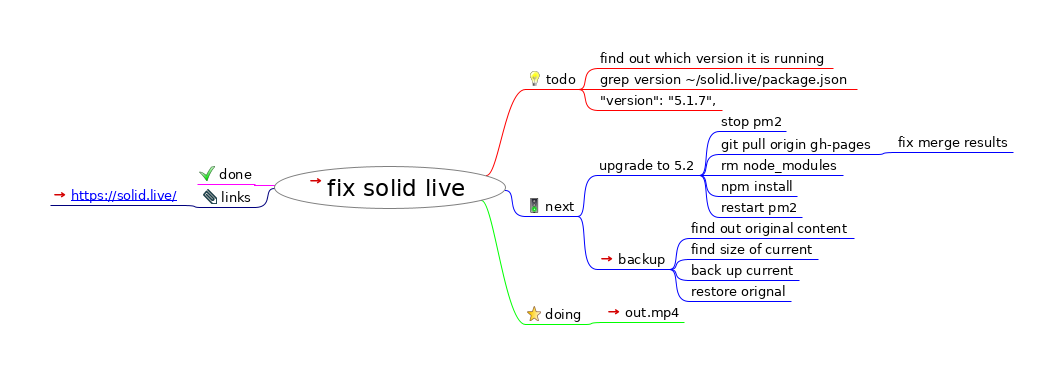
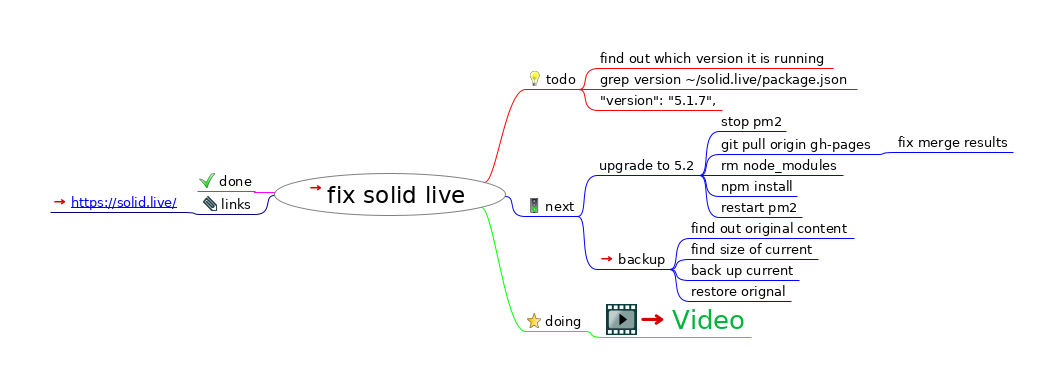
DEFAULT_MESSAGE

diff --git a/2019/10/12/solid.live.html b/2019/10/12/solid.live.html
@@ -23,7 +23,7 @@
                    };
                };
           
-          --></script></head><body><h1>fix solid live</h1><div style="width:96%;  padding:2%;  margin-bottom:10px;  border: 0px;  text-align:center;  vertical-align:center;"><img src="solid.live.html_files/image.png" style="margin-bottom:10px; &#9;border: 0px; &#9;text-align:center; &#9;vertical-align:center;" alt="Imagemap" usemap="#fm_imagemap" /></div><map name="fm_imagemap" id="fm_imagemap"><area shape="rect" href="index.html" alt="fix solid live" title="fix solid live" coords="274,166,506,209" />
+          --></script></head><body><h1>fix solid live</h1><div style="width:96%;  padding:2%;  margin-bottom:10px;  border: 0px;  text-align:center;  vertical-align:center;"><img src="solid.live.html_files/image.png" style="margin-bottom:10px; &#9;border: 0px; &#9;text-align:center; &#9;vertical-align:center;" alt="Imagemap" usemap="#fm_imagemap" /></div><map name="fm_imagemap" id="fm_imagemap"><area shape="rect" href="index.html" alt="fix solid live" title="fix solid live" coords="274,173,506,216" />
 <area shape="rect" href="#FMID_218445687FM" alt="todo" title="todo" coords="525,71,579,89" />
 <area shape="rect" href="#FMID_1597514152FM" alt="find out which version it is running" title="find out which version it is running" coords="598,50,833,68" />
 <area shape="rect" href="#FMID_1245027612FM" alt="grep version ~/solid.live/package.json" title="grep version ~/solid.live/package.json" coords="598,71,857,89" />
@@ -41,14 +41,14 @@
 <area shape="rect" href="#FMID_999561499FM" alt="find size of current" title="find size of current" coords="689,241,818,259" />
 <area shape="rect" href="#FMID_1710561339FM" alt="back up current" title="back up current" coords="689,262,799,280" />
 <area shape="rect" href="#FMID_730662297FM" alt="restore orignal" title="restore orignal" coords="689,283,791,301" />
-<area shape="rect" href="#FMID_1337705947FM" alt="doing" title="doing" coords="525,306,585,324" />
-<area shape="rect" href="solid.live.html_files/out.mp4" alt="out.mp4" title="out.mp4" coords="604,304,684,322" />
-<area shape="rect" href="#FMID_173873269FM" alt="done" title="done" coords="197,166,255,184" />
-<area shape="rect" href="#FMID_1081416841FM" alt="links" title="links" coords="201,189,255,207" />
-<area shape="rect" href="https://solid.live/" alt="https://solid.live/" title="https://solid.live/" coords="50,187,182,205" />
+<area shape="rect" href="#FMID_1337705947FM" alt="doing" title="doing" coords="525,313,585,331" />
+<area shape="rect" href="solid.live.html_files/out.mp4" alt="Video" title="Video" coords="604,304,751,337" />
+<area shape="rect" href="#FMID_173873269FM" alt="done" title="done" coords="197,173,255,191" />
+<area shape="rect" href="#FMID_1081416841FM" alt="links" title="links" coords="201,196,255,214" />
+<area shape="rect" href="https://solid.live/" alt="https://solid.live/" title="https://solid.live/" coords="50,194,182,212" />
 </map>
 
-<div class="node"><img src="solid.live.html_files/hide.png" class="hideshow" alt="hide" onClick="toggle(&quot;N65543&quot;)" id="imgN65543" /><a id="FMID_1306358364FM" /><div class="nodecontent" style="color:#000000;font-size:150%;"><a href="index.html">fix solid live</a> <a href="index.html"><img src="solid.live.html_files/ilink.png" alt="User Link" style="border-width:0" /></a></div><div class="content" id="N65543"><div class="node"><img src="solid.live.html_files/hide.png" class="hideshow" alt="hide" onClick="toggle(&quot;N66508&quot;)" id="imgN66508" /><img src="solid.live.html_files/icons/idea.svg" alt="idea" /> <a id="FMID_218445687FM" /><div class="nodecontent" style="color:#000000;font-size:83%;">todo</div><div class="content" id="N66508"><div class="node"><img src="solid.live.html_files/leaf.png" class="hideshow" alt="leaf" /><a id="FMID_1597514152FM" /><div class="nodecontent" style="color:#000000;font-size:83%;">find out which version it is running</div></div><div class="node"><img src="solid.live.html_files/leaf.png" class="hideshow" alt="leaf" /><a id="FMID_1245027612FM" /><div class="nodecontent" style="color:#000000;font-size:83%;">grep version ~/solid.live/package.json</div></div><div class="node"><img src="solid.live.html_files/leaf.png" class="hideshow" alt="leaf" /><a id="FMID_258954144FM" /><div class="nodecontent" style="color:#000000;font-size:83%;">"version": "5.1.7",</div></div></div></div><div class="node"><img src="solid.live.html_files/hide.png" class="hideshow" alt="hide" onClick="toggle(&quot;N66658&quot;)" id="imgN66658" /><img src="solid.live.html_files/icons/go.svg" alt="go" /> <a id="FMID_498159152FM" /><div class="nodecontent" style="color:#000000;font-size:83%;">next</div><div class="content" id="N66658"><div class="node"><img src="solid.live.html_files/hide.png" class="hideshow" alt="hide" onClick="toggle(&quot;N66699&quot;)" id="imgN66699" /><a id="FMID_1019039207FM" /><div class="nodecontent" style="color:#000000;font-size:83%;">upgrade to 5.2</div><div class="content" id="N66699"><div class="node"><img src="solid.live.html_files/leaf.png" class="hideshow" alt="leaf" /><a id="FMID_667633327FM" /><div class="nodecontent" style="color:#000000;font-size:83%;">stop pm2</div></div><div class="node"><img src="solid.live.html_files/hide.png" class="hideshow" alt="hide" onClick="toggle(&quot;N66770&quot;)" id="imgN66770" /><a id="FMID_333737714FM" /><div class="nodecontent" style="color:#000000;font-size:83%;">git pull origin gh-pages</div><div class="content" id="N66770"><div class="node"><img src="solid.live.html_files/leaf.png" class="hideshow" alt="leaf" /><a id="FMID_1476660597FM" /><div class="nodecontent" style="color:#000000;font-size:83%;">fix merge results</div></div></div></div><div class="node"><img src="solid.live.html_files/leaf.png" class="hideshow" alt="leaf" /><a id="FMID_1482135301FM" /><div class="nodecontent" style="color:#000000;font-size:83%;">rm node_modules</div></div><div class="node"><img src="solid.live.html_files/leaf.png" class="hideshow" alt="leaf" /><a id="FMID_1626232981FM" /><div class="nodecontent" style="color:#000000;font-size:83%;">npm install</div></div><div class="node"><img src="solid.live.html_files/leaf.png" class="hideshow" alt="leaf" /><a id="FMID_37332904FM" /><div class="nodecontent" style="color:#000000;font-size:83%;">restart pm2</div></div></div></div><div class="node"><img src="solid.live.html_files/hide.png" class="hideshow" alt="hide" onClick="toggle(&quot;N66951&quot;)" id="imgN66951" /><a id="FMID_469898696FM" /><div class="nodecontent" style="color:#000000;font-size:83%;"><a href="solid.live.html_files/out.mp4">backup</a> <a href="solid.live.html_files/out.mp4"><img src="solid.live.html_files/ilink.png" alt="User Link" style="border-width:0" /></a></div><div class="content" id="N66951"><div class="node"><img src="solid.live.html_files/leaf.png" class="hideshow" alt="leaf" /><a id="FMID_1371783227FM" /><div class="nodecontent" style="color:#000000;font-size:83%;">find out original content</div></div><div class="node"><img src="solid.live.html_files/leaf.png" class="hideshow" alt="leaf" /><a id="FMID_999561499FM" /><div class="nodecontent" style="color:#000000;font-size:83%;">find size of current</div></div><div class="node"><img src="solid.live.html_files/leaf.png" class="hideshow" alt="leaf" /><a id="FMID_1710561339FM" /><div class="nodecontent" style="color:#000000;font-size:83%;">back up current</div></div><div class="node"><img src="solid.live.html_files/leaf.png" class="hideshow" alt="leaf" /><a id="FMID_730662297FM" /><div class="nodecontent" style="color:#000000;font-size:83%;">restore orignal</div></div></div></div></div></div><div class="node"><img src="solid.live.html_files/hide.png" class="hideshow" alt="hide" onClick="toggle(&quot;N67133&quot;)" id="imgN67133" /><img src="solid.live.html_files/icons/bookmark.svg" alt="bookmark" /> <a id="FMID_1337705947FM" /><div class="nodecontent" style="color:#000000;font-size:83%;">doing</div><div class="content" id="N67133"><div class="node"><img src="solid.live.html_files/leaf.png" class="hideshow" alt="leaf" /><a id="FMID_1624812075FM" /><div class="nodecontent" style="color:#000000;font-size:83%;"><a href="solid.live.html_files/out.mp4">out.mp4</a> <a href="solid.live.html_files/out.mp4"><img src="solid.live.html_files/ilink.png" alt="User Link" style="border-width:0" /></a></div></div></div></div><div class="node"><img src="solid.live.html_files/leaf.png" class="hideshow" alt="leaf" /><img src="solid.live.html_files/icons/button_ok.svg" alt="button_ok" /> <a id="FMID_173873269FM" /><div class="nodecontent" style="color:#000000;font-size:83%;">done</div></div><div class="node"><img src="solid.live.html_files/hide.png" class="hideshow" alt="hide" onClick="toggle(&quot;N67254&quot;)" id="imgN67254" /><img src="solid.live.html_files/icons/attach.svg" alt="attach" /> <a id="FMID_1081416841FM" /><div class="nodecontent" style="color:#000000;font-size:83%;">links</div><div class="content" id="N67254"><div class="node"><img src="solid.live.html_files/leaf.png" class="hideshow" alt="leaf" /><a id="FMID_57913266FM" /><div class="nodecontent" style="color:#000000;font-size:83%;"><a href="https://solid.live/">
+<div class="node"><img src="solid.live.html_files/hide.png" class="hideshow" alt="hide" onClick="toggle(&quot;N65543&quot;)" id="imgN65543" /><a id="FMID_1306358364FM" /><div class="nodecontent" style="color:#000000;font-size:150%;"><a href="index.html">fix solid live</a> <a href="index.html"><img src="solid.live.html_files/ilink.png" alt="User Link" style="border-width:0" /></a></div><div class="content" id="N65543"><div class="node"><img src="solid.live.html_files/hide.png" class="hideshow" alt="hide" onClick="toggle(&quot;N66508&quot;)" id="imgN66508" /><img src="solid.live.html_files/icons/idea.svg" alt="idea" /> <a id="FMID_218445687FM" /><div class="nodecontent" style="color:#000000;font-size:83%;">todo</div><div class="content" id="N66508"><div class="node"><img src="solid.live.html_files/leaf.png" class="hideshow" alt="leaf" /><a id="FMID_1597514152FM" /><div class="nodecontent" style="color:#000000;font-size:83%;">find out which version it is running</div></div><div class="node"><img src="solid.live.html_files/leaf.png" class="hideshow" alt="leaf" /><a id="FMID_1245027612FM" /><div class="nodecontent" style="color:#000000;font-size:83%;">grep version ~/solid.live/package.json</div></div><div class="node"><img src="solid.live.html_files/leaf.png" class="hideshow" alt="leaf" /><a id="FMID_258954144FM" /><div class="nodecontent" style="color:#000000;font-size:83%;">"version": "5.1.7",</div></div></div></div><div class="node"><img src="solid.live.html_files/hide.png" class="hideshow" alt="hide" onClick="toggle(&quot;N66658&quot;)" id="imgN66658" /><img src="solid.live.html_files/icons/go.svg" alt="go" /> <a id="FMID_498159152FM" /><div class="nodecontent" style="color:#000000;font-size:83%;">next</div><div class="content" id="N66658"><div class="node"><img src="solid.live.html_files/hide.png" class="hideshow" alt="hide" onClick="toggle(&quot;N66699&quot;)" id="imgN66699" /><a id="FMID_1019039207FM" /><div class="nodecontent" style="color:#000000;font-size:83%;">upgrade to 5.2</div><div class="content" id="N66699"><div class="node"><img src="solid.live.html_files/leaf.png" class="hideshow" alt="leaf" /><a id="FMID_667633327FM" /><div class="nodecontent" style="color:#000000;font-size:83%;">stop pm2</div></div><div class="node"><img src="solid.live.html_files/hide.png" class="hideshow" alt="hide" onClick="toggle(&quot;N66770&quot;)" id="imgN66770" /><a id="FMID_333737714FM" /><div class="nodecontent" style="color:#000000;font-size:83%;">git pull origin gh-pages</div><div class="content" id="N66770"><div class="node"><img src="solid.live.html_files/leaf.png" class="hideshow" alt="leaf" /><a id="FMID_1476660597FM" /><div class="nodecontent" style="color:#000000;font-size:83%;">fix merge results</div></div></div></div><div class="node"><img src="solid.live.html_files/leaf.png" class="hideshow" alt="leaf" /><a id="FMID_1482135301FM" /><div class="nodecontent" style="color:#000000;font-size:83%;">rm node_modules</div></div><div class="node"><img src="solid.live.html_files/leaf.png" class="hideshow" alt="leaf" /><a id="FMID_1626232981FM" /><div class="nodecontent" style="color:#000000;font-size:83%;">npm install</div></div><div class="node"><img src="solid.live.html_files/leaf.png" class="hideshow" alt="leaf" /><a id="FMID_37332904FM" /><div class="nodecontent" style="color:#000000;font-size:83%;">restart pm2</div></div></div></div><div class="node"><img src="solid.live.html_files/hide.png" class="hideshow" alt="hide" onClick="toggle(&quot;N66951&quot;)" id="imgN66951" /><a id="FMID_469898696FM" /><div class="nodecontent" style="color:#000000;font-size:83%;"><a href="solid.live.html_files/out.mp4">backup</a> <a href="solid.live.html_files/out.mp4"><img src="solid.live.html_files/ilink.png" alt="User Link" style="border-width:0" /></a></div><div class="content" id="N66951"><div class="node"><img src="solid.live.html_files/leaf.png" class="hideshow" alt="leaf" /><a id="FMID_1371783227FM" /><div class="nodecontent" style="color:#000000;font-size:83%;">find out original content</div></div><div class="node"><img src="solid.live.html_files/leaf.png" class="hideshow" alt="leaf" /><a id="FMID_999561499FM" /><div class="nodecontent" style="color:#000000;font-size:83%;">find size of current</div></div><div class="node"><img src="solid.live.html_files/leaf.png" class="hideshow" alt="leaf" /><a id="FMID_1710561339FM" /><div class="nodecontent" style="color:#000000;font-size:83%;">back up current</div></div><div class="node"><img src="solid.live.html_files/leaf.png" class="hideshow" alt="leaf" /><a id="FMID_730662297FM" /><div class="nodecontent" style="color:#000000;font-size:83%;">restore orignal</div></div></div></div></div></div><div class="node"><img src="solid.live.html_files/hide.png" class="hideshow" alt="hide" onClick="toggle(&quot;N67133&quot;)" id="imgN67133" /><img src="solid.live.html_files/icons/bookmark.svg" alt="bookmark" /> <a id="FMID_1337705947FM" /><div class="nodecontent" style="color:#000000;font-size:83%;">doing</div><div class="content" id="N67133"><div class="node"><img src="solid.live.html_files/leaf.png" class="hideshow" alt="leaf" /><img src="solid.live.html_files/icons/video.svg" alt="video" /> <a id="FMID_1624812075FM" /><div class="nodecontent" style="color:#00b439;font-size:167%;"><a href="solid.live.html_files/out.mp4">Video</a> <a href="solid.live.html_files/out.mp4"><img src="solid.live.html_files/ilink.png" alt="User Link" style="border-width:0" /></a></div></div></div></div><div class="node"><img src="solid.live.html_files/leaf.png" class="hideshow" alt="leaf" /><img src="solid.live.html_files/icons/button_ok.svg" alt="button_ok" /> <a id="FMID_173873269FM" /><div class="nodecontent" style="color:#000000;font-size:83%;">done</div></div><div class="node"><img src="solid.live.html_files/hide.png" class="hideshow" alt="hide" onClick="toggle(&quot;N67260&quot;)" id="imgN67260" /><img src="solid.live.html_files/icons/attach.svg" alt="attach" /> <a id="FMID_1081416841FM" /><div class="nodecontent" style="color:#000000;font-size:83%;">links</div><div class="content" id="N67260"><div class="node"><img src="solid.live.html_files/leaf.png" class="hideshow" alt="leaf" /><a id="FMID_57913266FM" /><div class="nodecontent" style="color:#000000;font-size:83%;"><a href="https://solid.live/">
     <a http-equiv="content-type" content="text/html; charset=utf-8" href="https://solid.live/">https://solid.live/</a>
   </a> <a href="https://solid.live/"><img src="solid.live.html_files/ilink.png" alt="User Link" style="border-width:0" /></a></div></div></div></div></div></div>
 </body></html>

diff --git a/2019/10/12/solid.live.mm b/2019/10/12/solid.live.mm
@@ -127,7 +127,10 @@
 <node TEXT="doing" POSITION="right" ID="ID_1337705947" CREATED="1570904914374" MODIFIED="1570904914436">
 <icon BUILTIN="bookmark"/>
 <edge COLOR="#00ff00"/>
-<node TEXT="out.mp4" ID="ID_1624812075" CREATED="1570912442074" MODIFIED="1570912442265" LINK="solid.live_files/out.mp4"/>
+<node TEXT="Video" LOCALIZED_STYLE_REF="AutomaticLayout.level,2" ID="ID_1624812075" CREATED="1570912442074" MODIFIED="1570916664244" ICON_SIZE="24.0 pt" LINK="solid.live.html_files/out.mp4">
+<icon BUILTIN="video"/>
+<font SIZE="20"/>
+</node>
 </node>
 <node TEXT="done" POSITION="left" ID="ID_173873269" CREATED="1570904914448" MODIFIED="1570904914505">
 <icon BUILTIN="button_ok"/>
